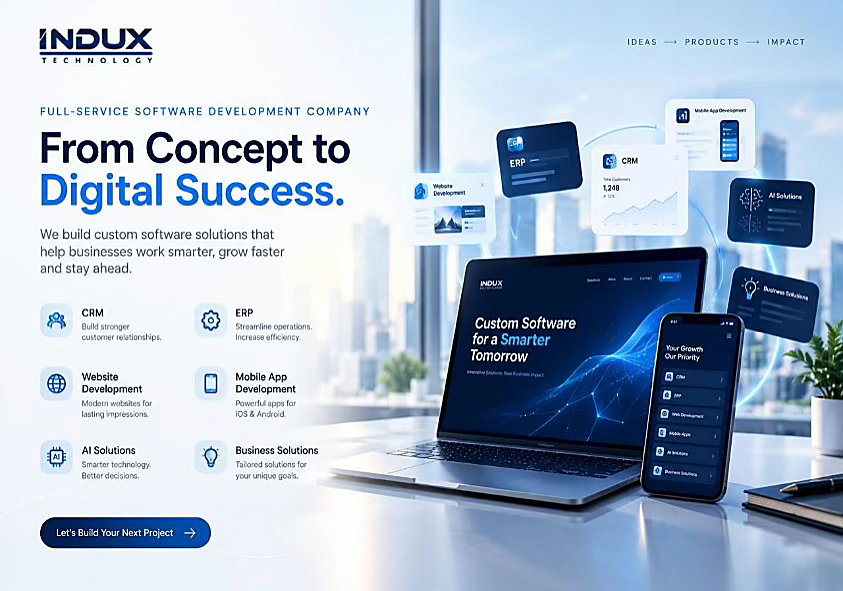
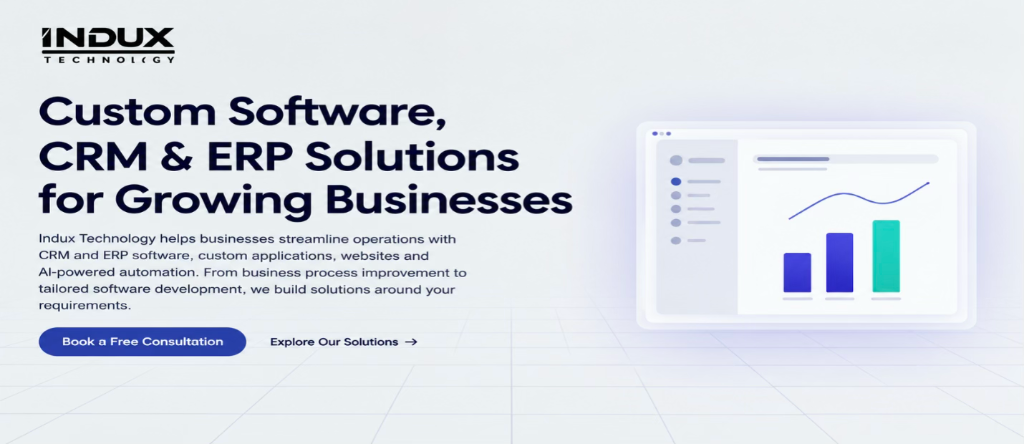
Merge Conflicts resolved 2

diff --git a/frontend/app/page.tsx b/frontend/app/page.tsx
@@ -367,14 +367,6 @@ export default function Home() {
     "mainEntity": [
       {
         "@type": "Question",
-        "name": "What does Indux Technology do?",
-        "acceptedAnswer": {
-          "@type": "Answer",
-          "text": "Indux Technology provides custom software development, CRM and ERP solutions, web and mobile app development, AI solutions, and business automation."
-        }
-      },
-      {
-        "@type": "Question",
         "name": "Where is Indux Technology located?",
         "acceptedAnswer": {
           "@type": "Answer",
@@ -383,10 +375,42 @@ export default function Home() {
       },
       {
         "@type": "Question",
-        "name": "Does Indux Technology develop custom software?",
+        "name": "What services does Indux Technology offer?",
         "acceptedAnswer": {
           "@type": "Answer",
-          "text": "Yes. Projects can be planned around specific business requirements, workflows, features, and integration needs."
+          "text": "Indux Technology provides CRM and ERP solutions, custom software development, website development, mobile applications and business automation services, subject to the current service offering."
+        }
+      },
+      {
+        "@type": "Question",
+        "name": "Can you customize software for our business?",
+        "acceptedAnswer": {
+          "@type": "Answer",
+          "text": "We can discuss your workflows, requirements, integrations and budget to determine whether a customized solution is appropriate."
+        }
+      },
+      {
+        "@type": "Question",
+        "name": "How much does a software project cost?",
+        "acceptedAnswer": {
+          "@type": "Answer",
+          "text": "Pricing depends on scope, functionality, integrations, complexity and support requirements. Contact the team to discuss your requirements and receive a suitable proposal."
+        }
+      },
+      {
+        "@type": "Question",
+        "name": "How do we get started?",
+        "acceptedAnswer": {
+          "@type": "Answer",
+          "text": "Contact the team to discuss your requirements and arrange an initial consultation."
+        }
+      },
+      {
+        "@type": "Question",
+        "name": "What is the difference between CRM and ERP?",
+        "acceptedAnswer": {
+          "@type": "Answer",
+          "text": "CRM focuses on customer relationships and sales activities; ERP connects broader business processes such as operations, inventory, finance or production, depending on the implementation."
         }
       },
       {
@@ -424,114 +448,65 @@ export default function Home() {
       />
       <main className="flex-1 w-full">
         {/* TOP HERO BANNER (BELOW NAVBAR) */}
-        <section className="relative w-full bg-[#d8ecfc] dark:bg-slate-900 overflow-hidden border-b border-slate-200/60 dark:border-slate-800">
-          <div className="w-full relative">
-            <div className="relative w-full aspect-[21/9] sm:aspect-[24/9] md:aspect-[3/1] max-h-[520px]">
-              <Image
-                src="/hero-banner-blue.jpg"
-                alt="One Of The Fastest Ways To Gain Business Success - Indux Technology"
-                fill
-                priority
-                quality={95}
-                sizes="100vw"
-                className="object-contain sm:object-cover object-center"
-              />
-            </div>
-          </div>
-        </section>
+
 
         {/* HERO SECTION */}
-        <section className="relative overflow-hidden pt-6 pb-16 sm:pt-10 sm:pb-24 lg:pt-8 lg:pb-32">
-          {/* Subtle dot pattern background */}
-          <div className="absolute top-10 left-1/2 -translate-x-1/2 w-full h-full opacity-40 dark:opacity-20 pointer-events-none bg-[radial-gradient(#cbd5e1_2px,transparent_2px)] dark:bg-[radial-gradient(#334155_2px,transparent_2px)] bg-[size:32px_32px]"></div>
 
-          <div className="max-w-7xl mx-auto px-4 sm:px-6 lg:px-8 relative z-10">
-            <div className="grid grid-cols-1 lg:grid-cols-2 gap-10 lg:gap-8 items-center">
-              {/* Left Side: Text Content */}
-              <div className="flex flex-col gap-4 sm:gap-6 text-left max-w-xl mx-auto lg:mx-0"
-              >
-                <div className="inline-flex items-center gap-2 font-medium text-slate-600 dark:text-slate-400 text-base sm:text-lg w-max">
-                  <div className="flex items-center">
-                    <span className="w-2.5 h-2.5 sm:w-3 sm:h-3 rounded-full bg-blue-500"></span>
-                    <span className="w-2.5 h-2.5 sm:w-3 sm:h-3 rounded-full bg-slate-800 -ml-1"></span>
-                  </div>
-                  Elevate your work with us
-                </div>
+        <section className="relative overflow-hidden pt-4 pb-12 sm:pt-6 sm:pb-16 lg:pt-8 lg:pb-20">
+          <div className="max-w-7xl mx-auto px-4 sm:px-6 lg:px-8">
+            <div className="relative w-full aspect-[1024/450] overflow-hidden rounded-2xl sm:rounded-3xl lg:rounded-[2.5rem] shadow-2xl border border-slate-200">
 
-                <h1 className="text-2xl xs:text-3xl sm:text-4xl md:text-5xl lg:text-6xl font-bold tracking-tight text-slate-900 dark:text-white leading-[1.15] sm:leading-[1.1]">
-                  Build{" "}
-                  <LineShadowText className="italic" shadowColor="#2563eb">
-                    Smarter.
-                  </LineShadowText>
+              {/* Background image */}
+              <Image
+                src="/image.png"
+                alt="Indux Technology"
+                fill
+                priority
+                sizes="(max-width: 1280px) 100vw, 1280px"
+                className="object-cover object-center"
+              />
+
+              {/* Heading */}
+              <div className="absolute left-[3.6%] top-[21%] z-10 w-[57%]">
+                <h1 className="text-[clamp(12px,3.5vw,42px)] font-bold leading-[1.08] tracking-tight text-[#080b2d]">
+                  Custom Software,
                   <br />
-                  Scale Faster.
+                  CRM &amp; ERP Solutions
+                  <br />
+                  for Growing Businesses
                 </h1>
-                <p className="text-base sm:text-lg text-slate-500 dark:text-slate-400 leading-relaxed mt-1 sm:mt-2 max-w-md">
-                  We build smart digital solutions that help businesses work better and grow faster. From custom software, CRM, and ERP to AI automation, web and mobile app development, we turn your ideas into practical solutions that deliver real results
+              </div>
+
+              {/* Description */}
+              <div className="absolute left-[3.6%] top-[53%] z-10 w-[45%]">
+                <p className="text-[clamp(5px,1.05vw,13px)] leading-[1.4] text-[#252a35]">
+                  Indux Technology helps businesses streamline operations with
+                  CRM and ERP software, custom applications, websites and
+                  AI-powered automation. From business process improvement to
+                  tailored software development, we build solutions around your
+                  requirements.
                 </p>
-
-                <div className="flex flex-col sm:flex-row items-stretch sm:items-center gap-4 sm:gap-6 mt-4 sm:mt-6">
-                  <GetQuoteModal>
-                    <Button className="w-full sm:w-auto h-auto bg-blue-600 hover:bg-blue-700 text-white border-2 border-transparent px-8 py-4 sm:py-5 rounded-full font-semibold transition-all hover:scale-105 shadow-lg shadow-blue-600/20 flex items-center justify-center gap-2 cursor-pointer group">
-                      Get Free Quote <ArrowRight className="w-4 h-4 group-hover:translate-x-1 transition-transform" />
-                    </Button>
-                  </GetQuoteModal>
-                  <Link
-                    href="/services"
-                    className="w-full sm:w-auto bg-slate-100/50 dark:bg-slate-800/50 border-2 border-slate-300 dark:border-slate-700 hover:bg-slate-200/50 dark:hover:bg-slate-700/50 hover:border-slate-400 dark:hover:border-slate-500 text-slate-800 dark:text-slate-200 px-8 py-4 sm:py-5 rounded-full font-semibold transition-all hover:scale-105 cursor-pointer flex items-center justify-center gap-2 group focus-visible:ring-2 focus-visible:ring-slate-400"
-                  >
-                    Our Services
-                  </Link>
-                </div>
               </div>
 
-              {/* Right Side: Hero Image Showcase */}
-              <div className="relative w-full aspect-[843/591] flex items-center justify-center max-w-xl mx-auto lg:max-w-none">
-                {/* Floating Rotating Text Badge */}
-                <div className="absolute -left-2 sm:left-0 lg:-left-6 bottom-4 sm:bottom-8 z-20 w-24 h-24 sm:w-28 sm:h-28 lg:w-32 lg:h-32 bg-white dark:bg-slate-900 rounded-full flex items-center justify-center shadow-2xl dark:shadow-none dark:border dark:border-slate-800">
-                  {/* Rotating Text SVG */}
-                  <div className="absolute inset-1.5 sm:inset-2 animate-[spin_8s_linear_infinite]">
-                    <svg
-                      viewBox="0 0 100 100"
-                      className="w-full h-full text-blue-600 overflow-visible"
-                    >
-                      <path
-                        id="circlePath"
-                        d="M 50, 50 m -37, 0 a 37,37 0 1,1 74,0 a 37,37 0 1,1 -74,0"
-                        fill="none"
-                      />
-                      <text
-                        className="text-[9px] sm:text-[10px] font-bold uppercase tracking-[0.2em]"
-                        fill="currentColor"
-                      >
-                        <textPath href="#circlePath" startOffset="0%">
-                          • INDUX TECHNOLOGY • TOP RATED
-                        </textPath>
-                      </text>
-                    </svg>
-                  </div>
-                  {/* Center Icon */}
-                  <div className="w-8 h-8 sm:w-10 sm:h-10 lg:w-12 lg:h-12 bg-blue-600 rounded-full flex items-center justify-center text-white shadow-inner">
-                    <Trophy className="w-4 h-4 sm:w-5 sm:h-5" />
-                  </div>
-                </div>
+              {/* Original button text: Book a Free Consultation */}
+              <Link
+                href="/contact"
+                className="absolute left-[3.6%] top-[73.5%] z-20 flex h-[8%] w-[20.5%] items-center justify-center rounded-full bg-[#3049b5] text-[clamp(5px,0.95vw,12px)] font-semibold text-white hover:bg-[#233894]"
+              >
+                Book a Free Consultation
+              </Link>
 
-                {/* Dominant Image Container - Full Fit */}
-                <div className="relative w-full h-full rounded-3xl overflow-hidden shadow-2xl z-10 border border-slate-200 dark:border-slate-800 bg-white dark:bg-slate-900 group">
-                  <Image
-                    src="/hero-concept-showcase.webp"
-                    alt="Indux Technology - From Concept to Digital Success"
-                    fill
-                    priority
-                    sizes="(max-width: 1024px) 100vw, 50vw"
-                    className="object-cover object-center transition-transform duration-700 group-hover:scale-105"
-                  />
-                </div>
-              </div>
+              {/* Original button text: Explore Our Solutions */}
+              <Link
+                href="/solutions"
+                className="absolute left-[25%] top-[73.5%] z-20 flex h-[8%] w-[19%] items-center justify-center gap-1 text-[clamp(5px,0.95vw,12px)] font-semibold text-[#080b2d] hover:text-blue-700"
+              >
+                Explore Our Solutions →
+              </Link>
+
             </div>
           </div>
         </section>
-
         {/* ABOUT US SECTION */}
         <section className="relative overflow-hidden bg-white dark:bg-slate-950 pb-16 sm:pb-20 lg:pb-32 pt-0">
           <div className="relative z-10 max-w-7xl mx-auto px-4 sm:px-6 lg:px-8 py-16 sm:py-20 lg:py-32">
@@ -1319,6 +1294,7 @@ export default function Home() {
           </div>
         </section>
 
+
         {/* FAQS SECTION */}
         <section className="py-16 sm:py-24 lg:py-32 bg-slate-50 dark:bg-slate-950 border-t border-slate-200/60 dark:border-slate-800 relative overflow-hidden">
           <div className="relative z-10 max-w-5xl mx-auto px-4 sm:px-6 lg:px-8">
@@ -1338,19 +1314,34 @@ export default function Home() {
             <div className="space-y-4 sm:space-y-5">
               {[
                 {
-                  question: "What does Indux Technology do?",
-                  answer:
-                    "Indux Technology provides custom software development, CRM and ERP solutions, web and mobile app development, AI solutions, and business automation.",
-                },
-                {
                   question: "Where is Indux Technology located?",
                   answer:
                     "Indux Technology is based in Kharadi, Pune, Maharashtra, India, and offers digital solutions to businesses beyond its local area.",
                 },
                 {
-                  question: "Does Indux Technology develop custom software?",
+                  question: "What services does Indux Technology offer?",
                   answer:
-                    "Yes. Projects can be planned around specific business requirements, workflows, features, and integration needs.",
+                    "Indux Technology provides CRM and ERP solutions, custom software development, website development, mobile applications and business automation services, subject to the current service offering.",
+                },
+                {
+                  question: "Can you customize software for our business?",
+                  answer:
+                    "We can discuss your workflows, requirements, integrations and budget to determine whether a customized solution is appropriate.",
+                },
+                {
+                  question: "How much does a software project cost?",
+                  answer:
+                    "Pricing depends on scope, functionality, integrations, complexity and support requirements. Contact the team to discuss your requirements and receive a suitable proposal.",
+                },
+                {
+                  question: "How do we get started?",
+                  answer:
+                    "Contact the team to discuss your requirements and arrange an initial consultation.",
+                },
+                {
+                  question: "What is the difference between CRM and ERP?",
+                  answer:
+                    "CRM focuses on customer relationships and sales activities; ERP connects broader business processes such as operations, inventory, finance or production, depending on the implementation.",
                 },
                 {
                   question: "How can I discuss my software project?",

diff --git a/frontend/app/about/page.tsx b/frontend/app/about/page.tsx
@@ -232,10 +232,8 @@ export default function AboutPage() {
                 <h2 className="text-3xl font-bold text-slate-900 dark:text-white">Our Mission</h2>
               </div>
               <p className="text-slate-600 dark:text-slate-400 mb-6 leading-relaxed text-lg">
-                To build technology with a human touch.
-                We help businesses solve their day-to-day
-                challenges and reach their biggest goals
-                through reliable, honest, and creative software.
+                Our mission is to empower businesses globally with scalable, innovative, and reliable technology solutions that simplify operations, improve productivity, and accelerate digital transformation. We help organizations turn ideas into practical digital solutions through custom software development, CRM and ERP systems, AI-powered automation, and web and mobile applications tailored to their unique business needs.
+
 
               </p>
               <ul className="space-y-4">
@@ -274,12 +272,7 @@ export default function AboutPage() {
                 <h2 className="text-3xl font-bold text-slate-900 dark:text-white">Our Vision</h2>
               </div>
               <p className="text-slate-600 dark:text-slate-400 mb-6 leading-relaxed text-lg">
-                To prove that great technology starts with a
-                human heartbeat. We aim to shape the
-                future of business by crafting elegant,
-                intuitive software that doesn't just solve
-                technical problems, but makes daily work
-                a more inspiring experience for people everywhere.
+                To become a globally recognized IT leader by delivering innovative, scalable, and future-ready digital solutions. At Indux Technology, we aim to empower businesses through modern technology, AI-driven innovation, and reliable software solutions that enhance efficiency, encourage growth, and create lasting value.
               </p>
               <ul className="space-y-4">
                 {['Global Reach & Impact', 'Continuous Innovation Hub', 'Sustainable & Ethical Tech'].map((item, i) => (
